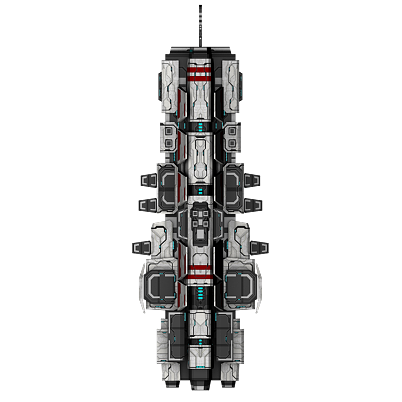
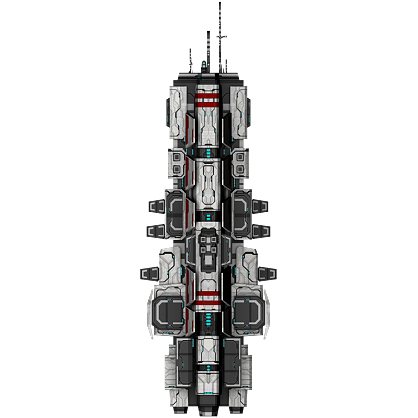
Quicksave

Changed region(s): [[0.3284, 0.0, 0.6866, 1.0]]

diff --git a/src/Main.kt b/src/Main.kt
@@ -9,12 +9,9 @@ import core.input.event.bundles.ThreeStateButtonEventBundle
 import core.input.mappings.MouseButton
 import game.PlayerContext
 import game.World
-import rendering.Color
 import rendering.Draw
 import rendering.DrawAsset
-import rendering.ShipDebugRenderer.render
 import rendering.trails.TrailsBuffer
-import rendering.trails.TrailsDebugRenderer
 import rendering.trails.TrailsRenderer
 import ui.UserInterfaceRenderer
 
@@ -53,19 +50,20 @@ class Main {
   fun render(delta: Float) {
     Draw.update(camera)
     DrawAsset.update(camera)
-    Draw.grid(size = Vec2.scaled(1024f), density = 16, color = Color.DARK_GRAY)
+    //Draw.grid(size = Vec2.scaled(1024f), density = 16, color = Color.DARK_GRAY)
     trailsRenderer.render(buffer, asset["trail"], camera.projectionMatrix())
     world.allShips().forEach {
       fun checkoutAsset(): String = when (it.config.displayedName) {
         "Fighter" -> "interceptor"
         "Carrier" -> "carrier"
+        "Bomber" -> "bomber"
         else -> throw RuntimeException()
       }
       DrawAsset.draw(asset[checkoutAsset()], it.position, it.angle)
-      it.render(camera.normalizedRenderingScale())
+      //it.render(camera.normalizedRenderingScale())
     }
     uiRenderer.render(delta)
-    TrailsDebugRenderer.render(buffer)
+    //TrailsDebugRenderer.render(buffer)
   }
 
   private class PainterAction(private val cameraDep: Camera, private val buffer: TrailsBuffer) : Action {

diff --git a/src/game/UnitConfiguration.kt b/src/game/UnitConfiguration.kt
@@ -54,6 +54,24 @@ data class UnitConfiguration(
       brakeDistance = 96f
     )
 
+    fun bomber() = UnitConfiguration(
+      displayedName = "Bomber",
+
+      size = 24f,
+
+      accelerationAngle = 2.05f,
+
+      thrusterSpeedAcceleration = .75f,
+      thrusterSpeedMax = 3.5f,
+      thrusterSpeedDumping = .875f,
+
+      rotationSpeedAcceleration = 1.625f,
+      rotationSpeedMax = 1.95f,
+      rotationSpeedDumping = .275f,
+
+      brakeDistance = 96f
+    )
+
     fun carrier() = UnitConfiguration(
       displayedName = "Carrier",
 
@@ -70,24 +88,6 @@ data class UnitConfiguration(
       rotationSpeedDumping = .375f,
 
       brakeDistance = 512f
-    )
-
-    fun asteroid() = UnitConfiguration(
-      displayedName = "Asteroid",
-
-      size = 32f,
-
-      accelerationAngle = 0f,
-
-      thrusterSpeedAcceleration = 0f,
-      thrusterSpeedMax = 0f,
-      thrusterSpeedDumping = 0f,
-
-      rotationSpeedAcceleration = 0f,
-      rotationSpeedMax = 0f,
-      rotationSpeedDumping = 0f,
-
-      brakeDistance = 0f
     )
 
   }

diff --git a/src/game/World.kt b/src/game/World.kt
@@ -14,7 +14,8 @@ class World {
     fun randomWorld(): World {
       val world = World();
       world.collectives.add(instantiate(UnitConfiguration.fighter(), Vec2(-256, 0), 5))
-      world.collectives.add(instantiate(UnitConfiguration.carrier(), Vec2(0, 256)))
+      world.collectives.add(instantiate(UnitConfiguration.bomber(), Vec2(0, 0), 3))
+      world.collectives.add(instantiate(UnitConfiguration.carrier(), Vec2(256, 0)))
       return world
     }
 
